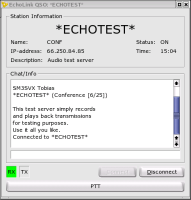
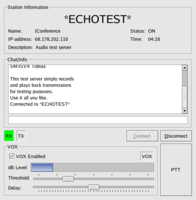
Updated the web pages for the 090426 release.
git-svn-id: svn://svn.code.sf.net/p/svxlink/svn/trunk@1583 f8843c6b-282e-0410-804b-c0d5895947d2

diff --git a/www/svxlink_usage.php b/www/svxlink_usage.php
@@ -3,12 +3,13 @@
   include("header.inc");
 ?>
 
-<H2>SvxLink server user documentation</H2>
-This part of the documentation describes how to use the svxlink server via the
+<H2>SvxLink Server user documentation</H2>
+This part of the documentation describes how to use the SvxLink Server via the
 radio interface. SvxLink is controlled by DTMF (Dual Tone Multi Frequency)
 signalling. All commands to the system ends with the number sign (#). It's like
-the <em>enter</em> key on a computer. However, the sysop have an option to make
-commands execute on squelch close so that the number sign is not needed.
+the <em>enter</em> key on a computer. However, the sysop have an option to
+configure the system to execute commands on squelch close so that the number
+sign is not needed.
 <P>
 There also is an "anti-flutter" mode of operation. This mode of operation make
 DTMF detection perform well when the signal is weak or there is mobile flutter
@@ -23,7 +24,7 @@ A1C         <-- Command executed: 1
 A12B3C      <-- Command executed: 1223
 A12B23C     <-- Command executed: 12223
 </PRE>
-So what good is this ?  Well, this way of coding commands will allow digits to
+So what good is this?  Well, this way of coding commands will allow digits to
 be "double detected" without affecting the end result, which can happen if there
 is mobile flutter present on the received signal. Consider the examples below.
 <PRE>
@@ -35,7 +36,7 @@ AA12B2233C  <-- Command executed: 12223
 Exactly the same result as the first example, even though some digits were
 detected multiple times.
 <P>
-There is a command timeout that is 10 seconds. If no DTMF characters has 
+There is a command timeout of 10 seconds. If no DTMF characters has 
 been received for 10 seconds, the reception buffer will be cleared.
 <P>
 The star key (*) is special. It triggers the node to identify itself. However,
@@ -84,6 +85,7 @@ when not connected.
 There are a couple of subcommands that can be used when the EchoLink module
 has been activated.
 <UL>
+  <LI>0  - Play the help message</LI>
   <LI>1  - List all connected stations</LI>
   <LI>2  - Play local EchoLink node id</LI>
   <LI>31 - Connect to a random link or repeater</LI>
@@ -97,15 +99,15 @@ The "connect by callsign" function will make it possible to connect to a
 station even if the node number is unknown. Callsigns are mapped to digits
 by using the following method: ABC=2, DEF=3, GHI=4, JKL=5, MNO=6, PQRS=7,
 TUV=8, WXYZ=9. The same mapping as on many phones. Letters are mapped to its
-corresponding digit and digits are ofcourse mapped to their corresponding
+corresponding digit and digits are of course mapped to their corresponding
 number. All other characters are mapped to digit 1.
 A search command start with * and then the callsign code is entered. So if
-you want to connect to SM3SVX-L you should enter "*76378915#". Since the
+you want to connect to SM0SVX-L you should enter "*76078915#". Since the
 codes are not unique a list of search hits will be presented to the user
 to choose from.
 If the entered code ends with *, a wildcard search will be performed. So
-if you want to search for all stations starting with SM3 you enter
-"*763*#".
+if you want to search for all stations starting with SM0 you enter
+"*760*#".
 <P>
 To get more information on the EchoLink system, have a look at the
 <A href="http://www.echolink.org">EchoLink homepage</A>.
@@ -133,7 +135,7 @@ The recommended way of encoding user IDs is the "phone method". Many phones
 have letters on the key pad like: 2=ABC, 3=DEF, 4=GHI, 5=JKL, 6=MNO,
 7=PQRS, 8=TUV, 9=WXYZ. To encode the callsign SM0SVX, use the three last
 letters and map them to digits. Then we will get the user ID 789. In case of
-a collition, add 1. For example AFC and ADB will both map to 232. One
+a collision, add 1. For example AFC and ADB will both map to 232. One
 possible mapping is then AFC=232 and ADB=233. When using this method to encode
 user IDs, it will be possible for a user to guess another user's user ID.
 <P>

diff --git a/www/install.php b/www/install.php
@@ -11,7 +11,7 @@ development is done under Fedora it's most tested under that distribution.
 SvxLink have a few dependencies. Most of them should be installed by default on
 a normal Linux workstation. The Qtel application requires X/Qt but the svxlink
 server is a pure console application. Other dependencies: libsigc++ (only
-version 1.2 will work), libgsm, libtcl, libpopt, libspandsp.
+version 1.2 will work), libgsm, libtcl, libpopt, libgcrypt and optionally libspeex.
 <P>
 The SvxLink distribution contains a couple of RPM:s:
 
@@ -33,10 +33,9 @@ The SvxLink distribution contains a couple of RPM:s:
 Specific installation instructions for different distributions:
 
 <UL>
-  <LI><A href="install-f9.php">Fedora 9</A></LI>
+  <LI><A href="install-f10.php">Fedora 10</A></LI>
+  <LI><A href="install-f10.php">Fedora 9</A></LI>
   <LI><A href="install-f8.php">Fedora 8</A></LI>
-  <LI><A href="install-fc6.php">Fedora Core 6</A></LI>
-  <LI><A href="install-deb31.php">Debian 3.1</A></LI>
 </UL>
 <P>
 Now continue below reading the
@@ -49,9 +48,10 @@ binaries for, you will have to build the whole thing from source. You will still
 need to satisfy the dependencies specified above. That is
 <A href="http://ftp.gnome.org/pub/GNOME/sources/libsigc++/1.2/">libsigc++ 1.2</A>,
 <A href="http://kbs.cs.tu-berlin.de/~jutta/toast.html">gsm</A>,
-<A href="http://www.tcl.tk/software/tcltk/download.html">tcl</A> and
-<A href="http://www.soft-switch.org/downloads/spandsp/">spandsp</A>.
-Maybe you can find prebuilt binaries for these libs for your distribution.
+<A href="http://rpm5.org/files/popt/">popt</A>,
+<A href="http://www.gnupg.org/">libgcrypt</A> and
+<A href="http://www.speex.org/">speex</A>.
+You can probably find prebuilt binaries for these libs for your distribution.
 Otherwise you will just have to compile them as well.
 <P>
 To compile Qtel, the <A href="http://www.trolltech.com/">Qt widget toolkit</A>
@@ -84,8 +84,11 @@ tar xvzf /path-to-wherever-you-put-the-tar-file/sounds-YYMMDD.tar.gz
 <P>
 Specific installation instructions for different distributions:
 <UL>
+  <LI><A href="install-ubuntu804.php">Ubuntu 8.10</A></LI>
   <LI><A href="install-ubuntu804.php">Ubuntu 8.04</A></LI>
+  <LI><A href="install-deb50.php">Debian 5.0</A></LI>
   <LI><A href="install-deb40.php">Debian 4.0</A></LI>
+  <LI><A href="install-opensuse11_1.php">openSUSE 11.1</A></LI>
 </UL>
 <P>
 Now continue below reading the
@@ -139,7 +142,7 @@ If you are going to run the svxlink server, read on.
 
 <A name="hardware"><h2>Hardware</h2></A>
 To run the SvxLink server, some kind of hardware is needed to connect the
-computer to the transciever. At the moment I am using an
+computer to the transceiver. At the moment I am using an
 <A href="http://lea.hamradio.si/~s57nan/ham_radio/svx_intf/">interface designed by Aleks, s54s,</A>
 which is fully isolated with transformers and opto-couplers. For a long time I
 just used a simple direct, non-isolated, connection between the transceiver

diff --git a/www/index.php b/www/index.php
@@ -6,16 +6,20 @@
 <H2>Main Screen</H2>
 Welcome to the home of SvxLink. 
 The SvxLink project is developing a flexible, general purpose voice services
-system for ham radio use. The svxlink server consists of a core that handles the
-connection to the tranceiver. The core can be configured to act as a repeater
+system for ham radio use. The SvxLink Server consists of a core that handles the
+connection to the transceiver. The core can be configured to act as a repeater
 controller or to operate on a simplex channel. 
 The voice services are loaded into the core as plugins, or modules as they are
 called in SvxLink. Some examples of existing voice services are: Help - a help
 system, Parrot - a module that plays back everything you say, EchoLink - connect
-to other EchoLink stations and TclVoiceMail - a simple voice mail system. The
-project also includes an EchoLink client GUI application (Qtel).
+to other EchoLink stations and TclVoiceMail - a simple voice mail system.
 Have a look at the <A href="featurelist.php">feature list</A> to get a quick
 overview of what the SvxLink project is all about.
+<P/>
+The project also includes an EchoLink client GUI application (Qtel).
+Qtel is only an EchoLink client program. It does not have the
+sysop mode. That is, it cannot be connected to a transceiver
+and act as a link. For the latter, use the SvxLink Server.
 <P/>
 EchoLink is an amateur radio invention (well actually it is just a
 modified verison of IP telephony) to link radio transceivers together
@@ -25,13 +29,9 @@ it. The original EchoLink software can be found at
 this software only support the Windows operating system and it is
 closed source. SvxLink is released under the GPL license. 
 <P/>
-Qtel is only an EchoLink client program. It does not have the
-sysop mode. That is, it cannot be connected to a transceiver
-and act as a link. For the latter, use the svxlink server.
-<P/>
 SvxLink is developed under Fedora but it's possible to get it working on other
-distributions as well. However, since RPM:s are provided for Fedora it's easier
-to install there.
+distributions as well. However, since SvxLink is a part of the official Fedora
+distribution it's easier to install it there.
 <P/>
 
 <?php include("footer.inc"); ?>

diff --git a/www/featurelist.php b/www/featurelist.php
@@ -42,7 +42,7 @@ These are the most important features of the SvxLink server application.
   (Internet)</LI>
   <LI>Multiple squelch detectors: Vox, CTCSS, signal level and external
   (through serial port pin)</LI>
-  <LI>Deemphasis/preemphasis filer support</LI>
+  <LI>Digital deemphasis/preemphasis filter</LI>
   <LI>DTMF muting</LI>
   <LI>Squelch tail elimination</LI>
   <LI>CTCSS transmit, always or just when the squelch is open</LI>
@@ -57,6 +57,7 @@ These are the most important features of the SvxLink server application.
     <LI>Random connect to link, repeater or conference</LI>
     <LI>Reconnect to last disconnected node</LI>
     <LI>Listen only mode</LI>
+    <LI>APRS node info announcement support</LI>
   </UL>
   <LI>A voice mail module</LI>
   <UL>
@@ -80,7 +81,7 @@ These are the most important features of the Qtel application.
   <LI>The EchoLink station list is divided into Conferences, Links, Repeaters
   and Stations</LI>
   <LI>A bookmark system</LI>
-  <LI>Support for multiple languages (English and Swedish at the moment)</LI>
+  <LI>Support for multiple languages (English, Swedish, German, Spanish and Italian at the moment)</LI>
   <LI>VOX</LI>
 </UL>
 

diff --git a/www/support.php b/www/support.php
@@ -5,8 +5,8 @@ There is one way to get in contact with the SvxLink "community". That is
 through the mailing list. The address to the mailing list is
 <A href="mailto:svxlink-devel@lists.sourceforge.net">
 svxlink-devel@lists.sourceforge.net</A>. So, whatever your business is, please
-use the mailing list. Do NOT use EchoLink or direct e-mail to the author. The
-list is usually low volume so don't be afraid to register.
+use the mailing list. <b>Do NOT use EchoLink or direct e-mail to the author</b>.
+The list is usually fairly low volume so don't be afraid to register.
 <P>
 There are a couple of reasons why only the mailing list should be used for
 support:
@@ -77,6 +77,13 @@ the steps below to make a good bug report.
 
 If these simple guide lines are followed, bugs will be found and fixed much
 faster.
+<P/>
+
+
+<A name="feature-requests"><h2>Feature Requests</h2></A>
+To request a new feature, use the
+<A href="https://sourceforge.net/tracker/?group_id=84813&atid=573953">SourceForge feature request tracker</A>.
+If a feature is just requested via the mailing list it may easily be forgotten.
 
 <?php include("footer.inc"); ?>
 

diff --git a/www/news.php b/www/news.php
@@ -7,6 +7,32 @@
 <H2>Project News</H2>
 <TABLE width="95%" align="center">
   <TR><TD bgcolor="<?php echo $headercolor; ?>">
+    <B>26 Apr 2009: <I>Version 090426 released</I></B>
+  <TD/></TR>
+  <TR><TD>
+    SvxLink Server now have a new DTMF decoder and also a new
+    tone detector. The SpanDSP library is no longer required.
+    The RemoteTrx protocol have been improved with audio
+    compression and authentication.
+    <P/>
+    The EchoLink module is now able to register itself on the
+    EchoLink "link status" page. APRS functionality have been
+    added so that position and other useful info can be sent to
+    the APRS network.
+    <P/>
+    Qtel have three new translations: German, Spanish and
+    Italian.
+    <P/>
+    A number of bugs have been fixed.
+    <P/>
+    As usual, be sure to check out the
+    <A href="http://sourceforge.net/project/shownotes.php?release_id=678472">ChangeLog</A>
+    for more detailed information.
+  </TD></TR>
+  
+  <TR><TD><BR/></TD></TR>
+
+  <TR><TD bgcolor="<?php echo $headercolor; ?>">
     <B>31 Jul 2008: <I>Version 080730 released</I></B>
   <TD/></TR>
   <TR><TD>

diff --git a/www/install-opensuse11_1.php b/www/install-opensuse11_1.php
@@ -5,21 +5,20 @@
   $rel="090426";
 ?>
 
-<H2>Installation instructions for Debian 4.0</H2>
+<H2>Installation instructions for openSUSE 11.1</H2>
 This instruction was written for the <?php echo $rel ?> release of SvxLink.
 <p/>
-There are no binary packages for Debian but it is quite easy
+There are no official binary packages for openSUSE but it is quite easy
 to compile SvxLink from source. First, install a couple of
 packages that SvxLink depend on. In a terminal, type the
 following commands as user 'root'.
 
 <pre>
-apt-get update
-apt-get install alsa-utils g++ make libsigc++-1.2-dev libgsm-dev libpopt-dev libgcrypt-dev tcl8.4-dev libspeex-dev
+zypper install make gcc gcc-c++ libsigc++12-devel libgsm-devel popt-devel libgcrypt-devel tcl-devel speex-devel alsa-utils
 </pre>
 If you need Qtel you also need the QT development libraries.
 <pre>
-apt-get install libqt3-mt-dev
+zypper install qt3-devel qt3-devel-tools
 </pre>
 Download and compile the source code and then install it:
 <pre>

diff --git a/www/qtel_usage.php b/www/qtel_usage.php
@@ -41,6 +41,12 @@ indicator will light up. To lock the PTT in transmit, first press and hold the
 Ctrl-key and then press the PTT button. To disconnect, press the "Disconnect"
 button.
 <P/>
+The VOX is used to automatically activate the PTT when speaking into the
+microphone. To enable the VOX, check the "VOX Enabled" checkbox. Then set a
+suitable level for "Threshold" so that the VOX does not trigger by mistake on
+noise. Adjust the "Delay" slider so that the hangtime is long enough to allow
+speech pauses without the PTT getting released.
+<P/>
 In the big, white area in the middle of the window, info messages from the
 remote station are shown. Chat messages from the remote station is also shown
 here. In the one-line white area below, chat messages can be typed that is sent

diff --git a/www/install-ubuntu804.php b/www/install-ubuntu804.php
@@ -2,10 +2,10 @@
   $selected="index";
   include("header.inc");
 
-  $rel="080730";
+  $rel="090426";
 ?>
 
-<H2>Installation instructions for Ubuntu 8.04</H2>
+<H2>Installation instructions for Ubuntu 8.04 and 8.10</H2>
 This instruction was written for the <?php echo $rel ?> release of SvxLink.
 <p/>
 There are no binary packages for Ubuntu but it is quite easy
@@ -15,7 +15,7 @@ following commands.
 
 <pre>
 sudo apt-get update
-sudo apt-get install alsa-utils g++ libsigc++-1.2-dev libgsm1-dev libpopt-dev tcl-dev make libspandsp-dev
+sudo apt-get install g++ libsigc++-1.2-dev libgsm1-dev libpopt-dev tcl-dev libgcrypt11-dev libspeex-dev make alsa-utils
 </pre>
 If you need Qtel you also need the QT development libraries.
 <pre>

diff --git a/www/install-deb50.php b/www/install-deb50.php
@@ -5,7 +5,7 @@
   $rel="090426";
 ?>
 
-<H2>Installation instructions for Debian 4.0</H2>
+<H2>Installation instructions for Debian 5.0</H2>
 This instruction was written for the <?php echo $rel ?> release of SvxLink.
 <p/>
 There are no binary packages for Debian but it is quite easy
@@ -15,7 +15,7 @@ following commands as user 'root'.
 
 <pre>
 apt-get update
-apt-get install alsa-utils g++ make libsigc++-1.2-dev libgsm-dev libpopt-dev libgcrypt-dev tcl8.4-dev libspeex-dev
+apt-get install g++ make libsigc++-1.2-dev libgsm-dev libpopt-dev tcl8.4-dev libgcrypt-dev libspeex-dev alsa-utils
 </pre>
 If you need Qtel you also need the QT development libraries.
 <pre>

diff --git a/www/install-f10.php b/www/install-f10.php
@@ -1,0 +1,25 @@
+<?php
+  $selected="index";
+  include("header.inc");
+?>
+
+<H2>Installation instructions for Fedora >= 9</H2>
+The SvxLink applications are available in the official Fedora
+repository from release 9. To install SvxLink Server type:
+<PRE>
+yum install svxlink-server
+</PRE>
+To install Qtel type:
+<PRE>
+yum install qtel
+</PRE>
+<P>
+To make the SvxLink server start on boot type:
+<PRE>
+chkconfig svxlink on
+</PRE>
+
+Now go back to the installation page and read the
+<A href="install.php#post-install">post install stuff</A> chapter.
+
+<?php include("footer.inc"); ?>
